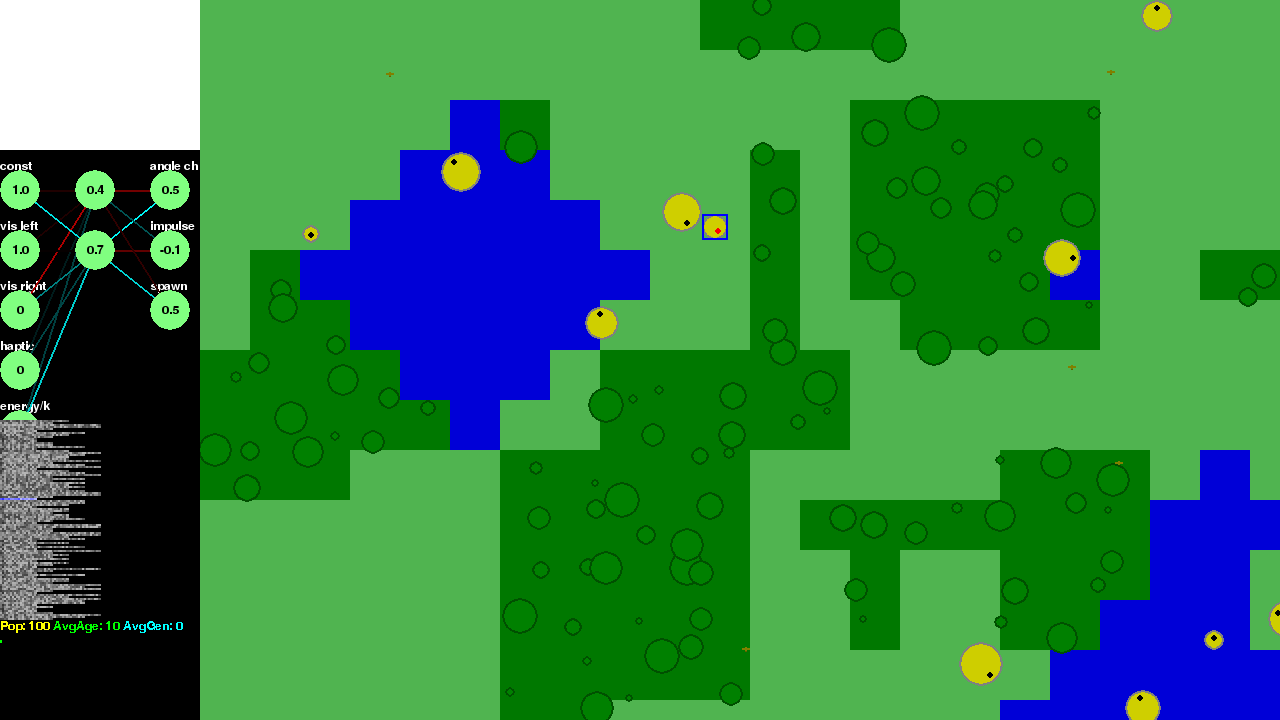
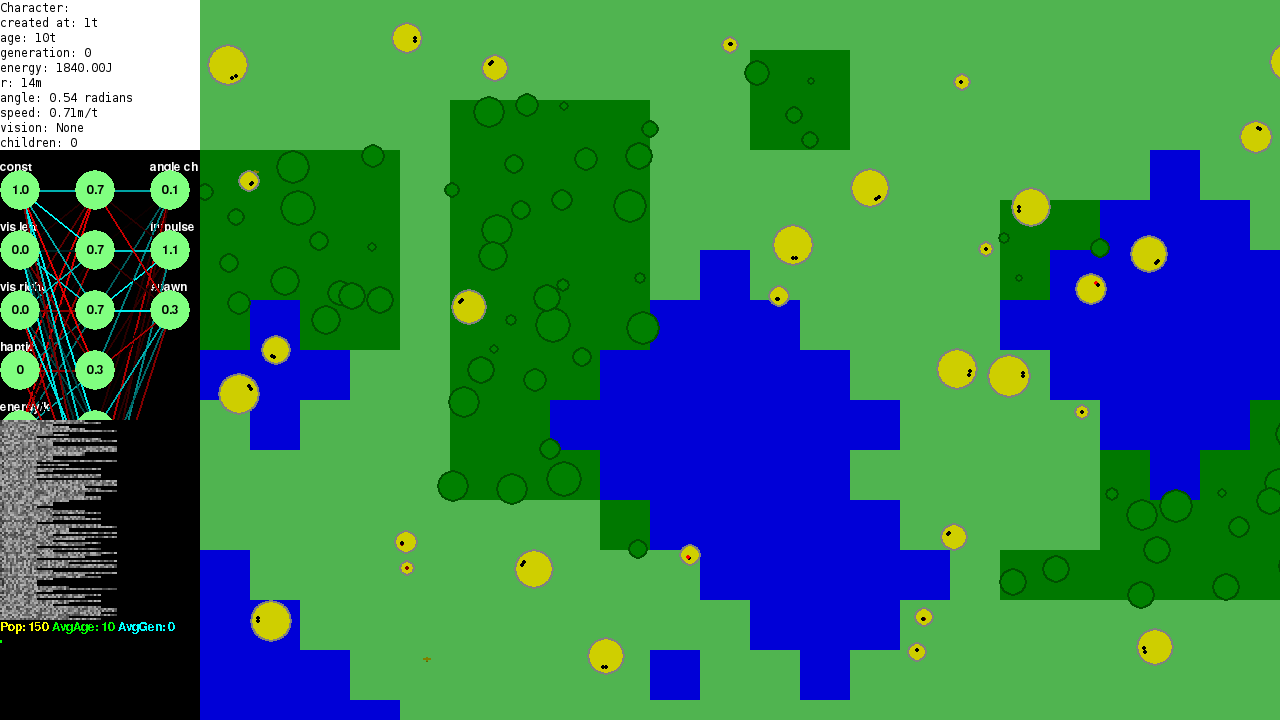
Increase minimum characters to 150

diff --git a/novel-evolve/worldview.py b/novel-evolve/worldview.py
@@ -10,7 +10,7 @@ import group
 import tree
 import mapgen
 
-MIN_CHARACTERS = 100
+MIN_CHARACTERS = 150
 
 class WorldView(viewport.Viewport):
     def __init__(self, parent, viewport_rect, canvas_w, canvas_h):
